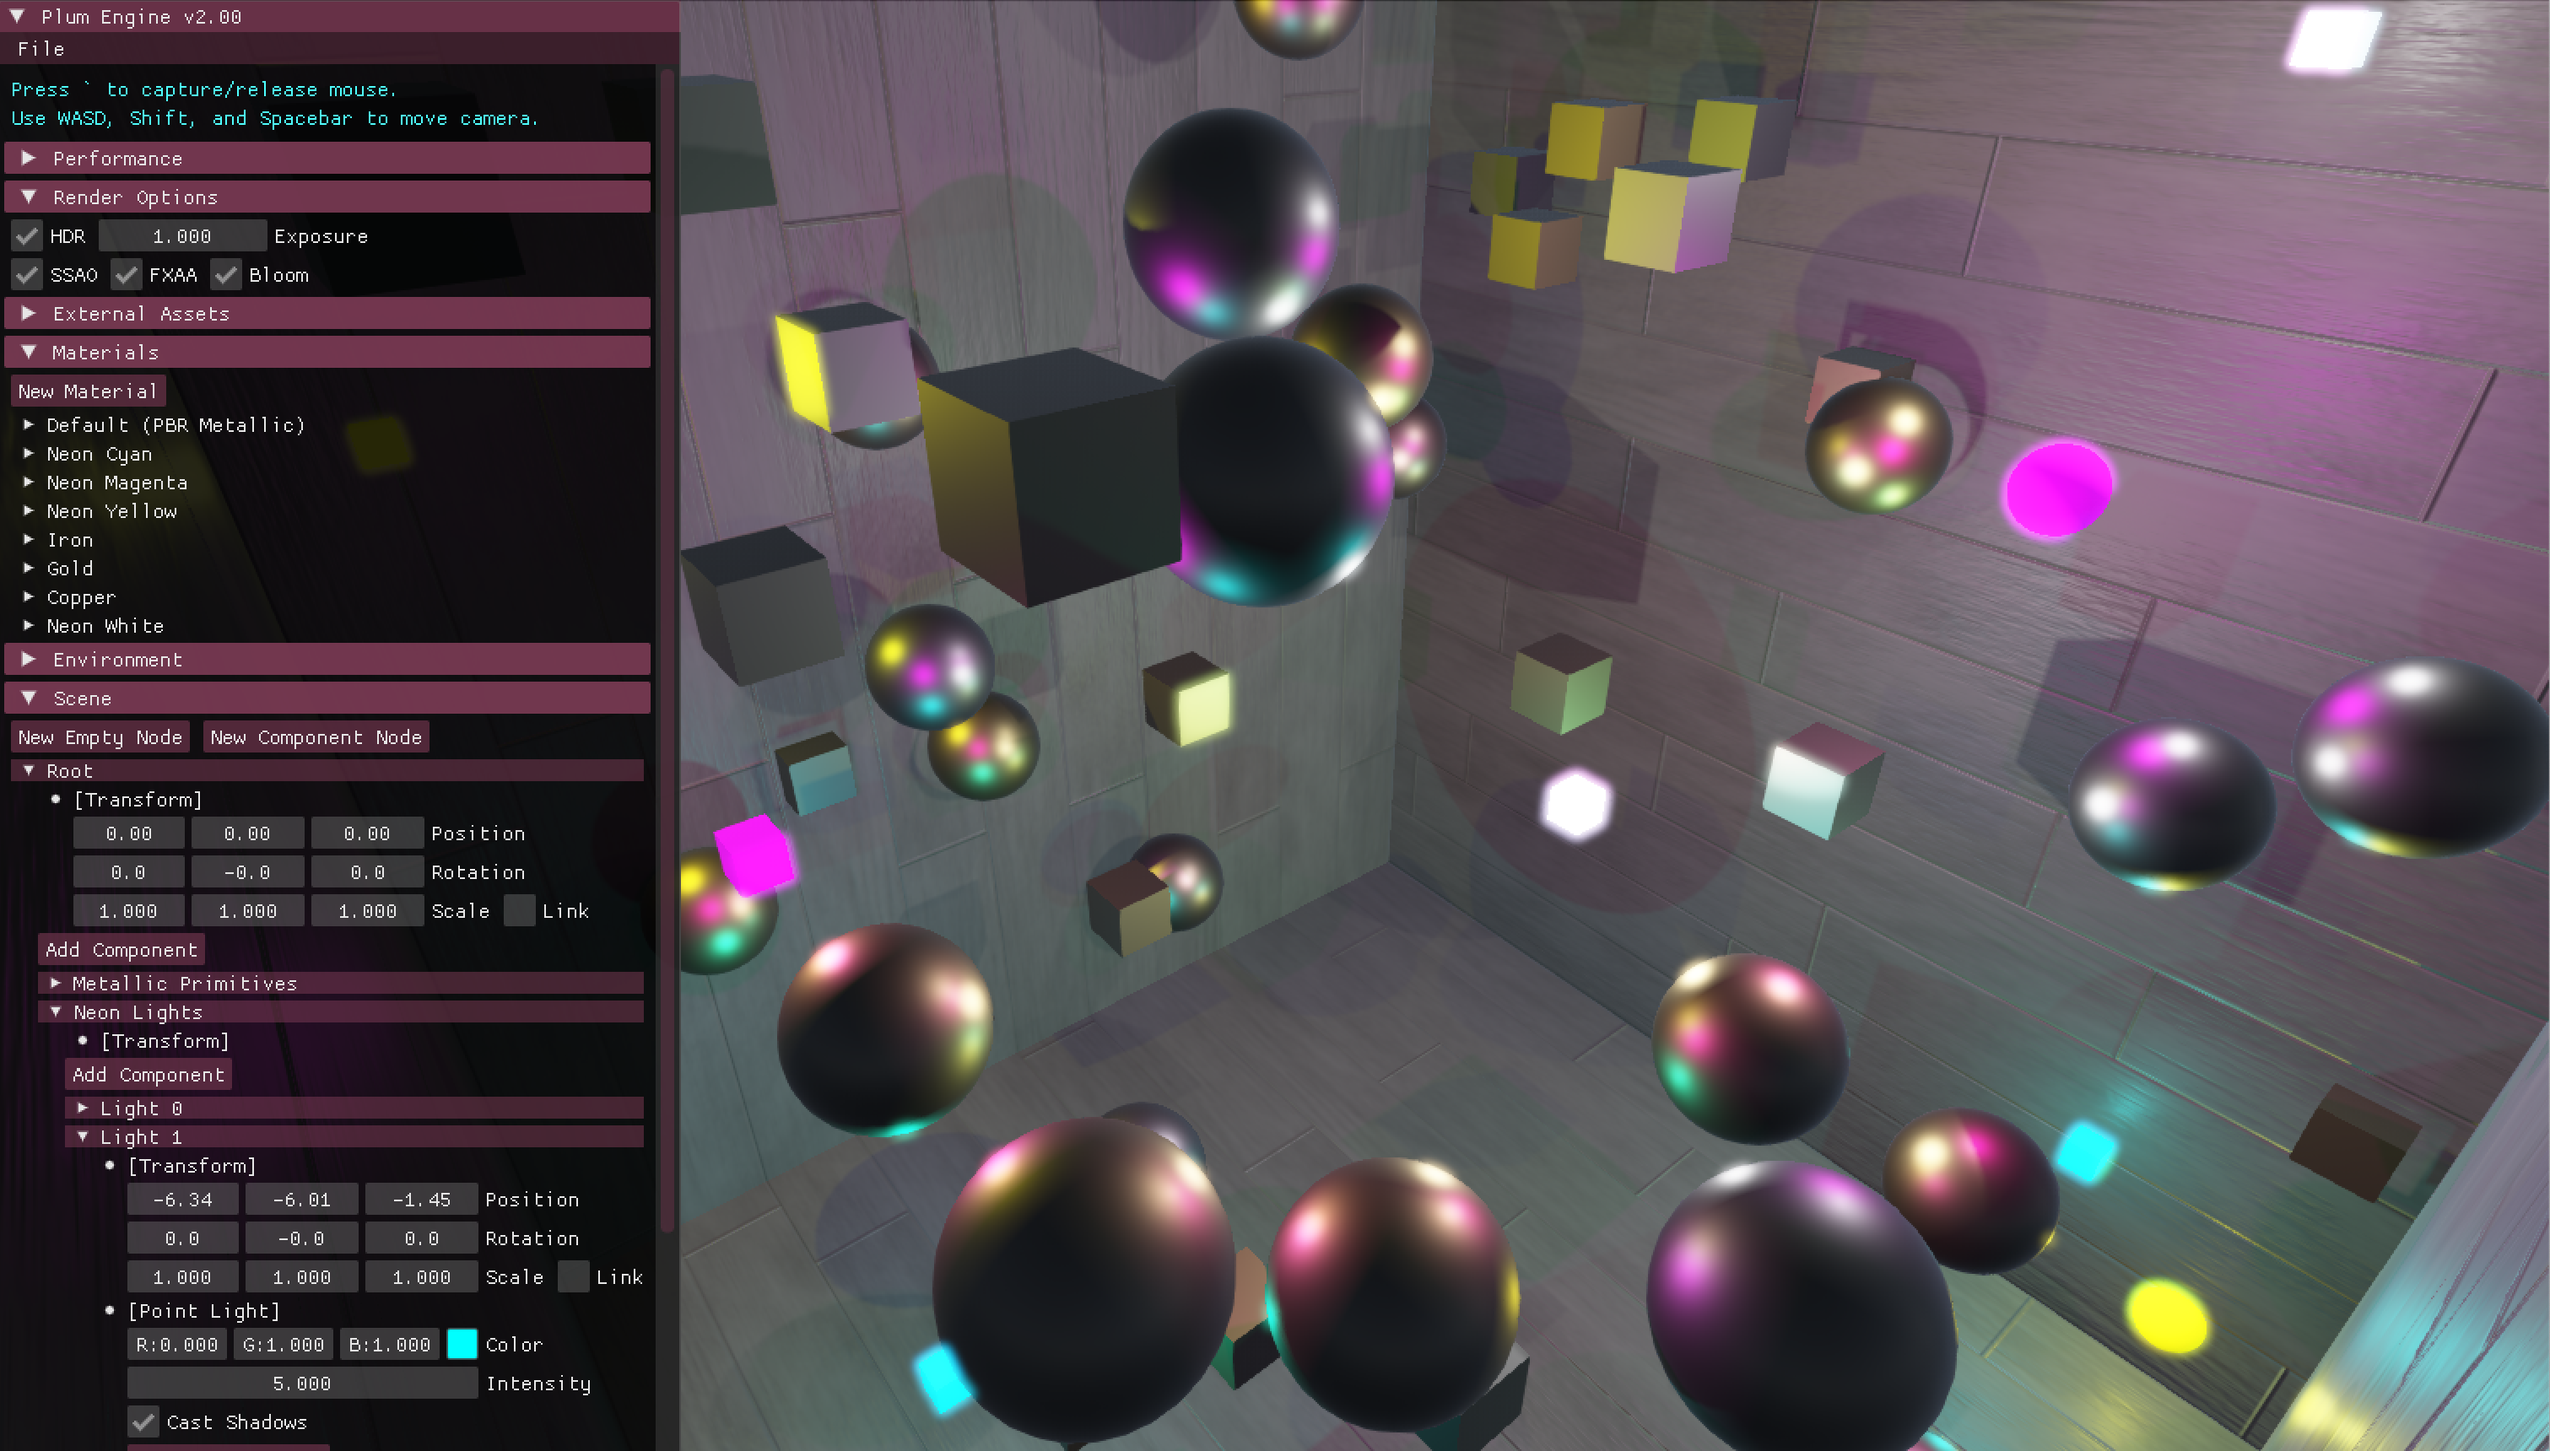
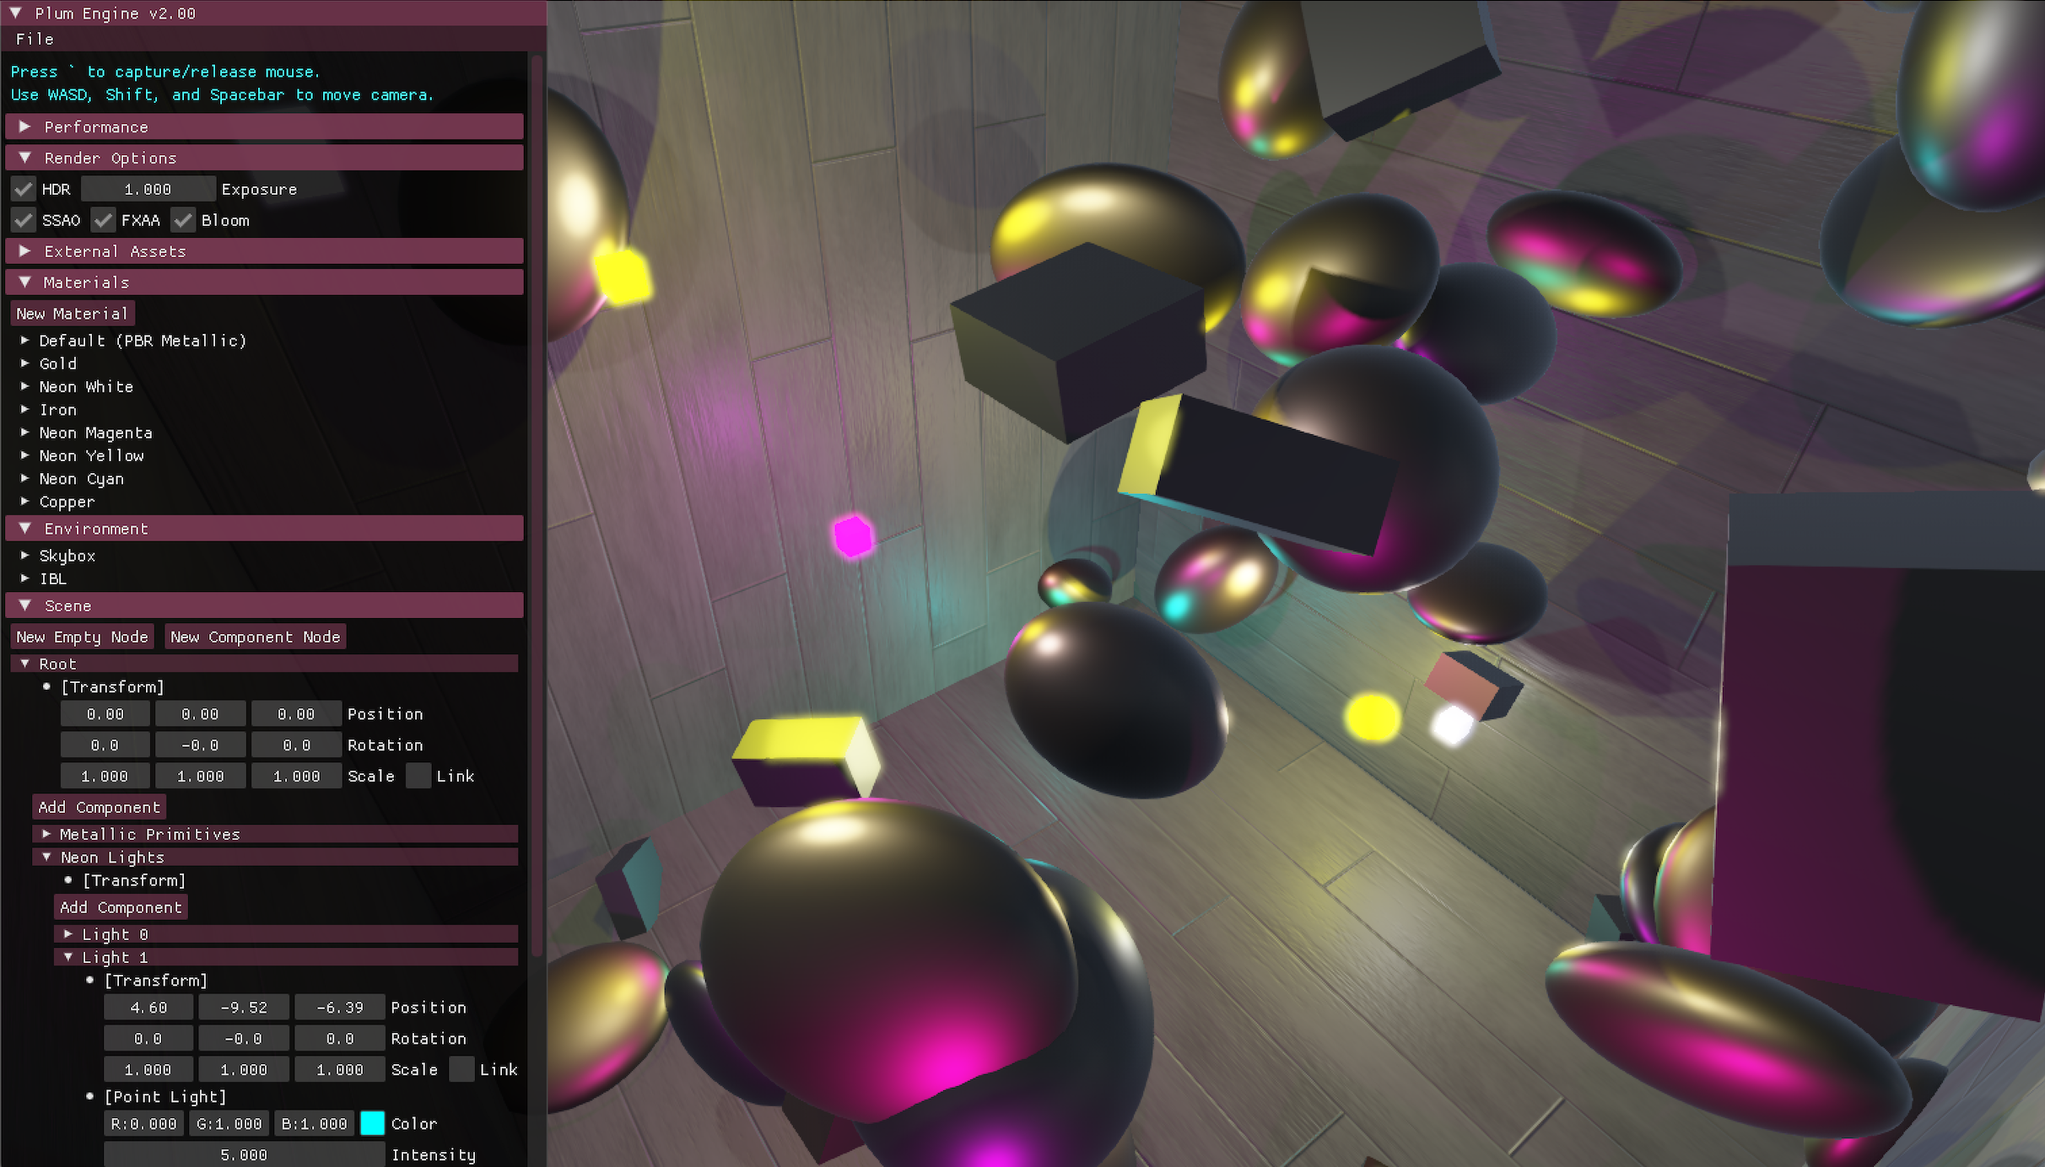
tweak demo2 scene and update screenshot

diff --git a/src/demo/demo2.cpp b/src/demo/demo2.cpp
@@ -95,7 +95,9 @@ void Demo2::initialize() {
     std::uniform_int_distribution<> intdist_shapes(0, 1);  // sphere, cube
     std::uniform_int_distribution<> intdist_metalmats(0, metalmats.size() - 1);
     const float range = 20.f;
-    std::uniform_real_distribution<float> realdist(-range/2, range/2);
+    std::uniform_real_distribution<float> realtrans(-range/2, range/2);
+    std::uniform_real_distribution<float> realrot(-90.f, 90.f);
+    std::uniform_real_distribution<float> realscale(0.5f, 2.0f);
     
     auto metalParent = scene->EmplaceChild();
     metalParent->name = "Metallic Primitives";
@@ -104,7 +106,9 @@ void Demo2::initialize() {
         int k = intdist_metalmats(eng);
         
         auto metalNode = metalParent->EmplaceChild();
-        metalNode->transform.Translate(realdist(eng), realdist(eng), realdist(eng));
+        metalNode->transform.Translate(realtrans(eng), realtrans(eng), realtrans(eng));
+        metalNode->transform.Rotate(realrot(eng), realrot(eng), realrot(eng));
+        metalNode->transform.Scale(realscale(eng), realscale(eng), realscale(eng));
         metalNode->name = std::string("Primitive ") + std::to_string(i);
         
         std::shared_ptr<Component::Mesh> mesh;
@@ -124,7 +128,7 @@ void Demo2::initialize() {
         
         auto lightNode = lightParent->EmplaceChild();
         lightNode->name = std::string("Light ") + std::to_string(i);
-        lightNode->transform.Translate(realdist(eng), realdist(eng), realdist(eng));
+        lightNode->transform.Translate(realtrans(eng), realtrans(eng), realtrans(eng));
         auto light = std::make_shared<Component::PointLight>();
         light->color = lightmats[k]->albedo / neonIntensity;
         light->intensity = neonIntensity / 2.f;
